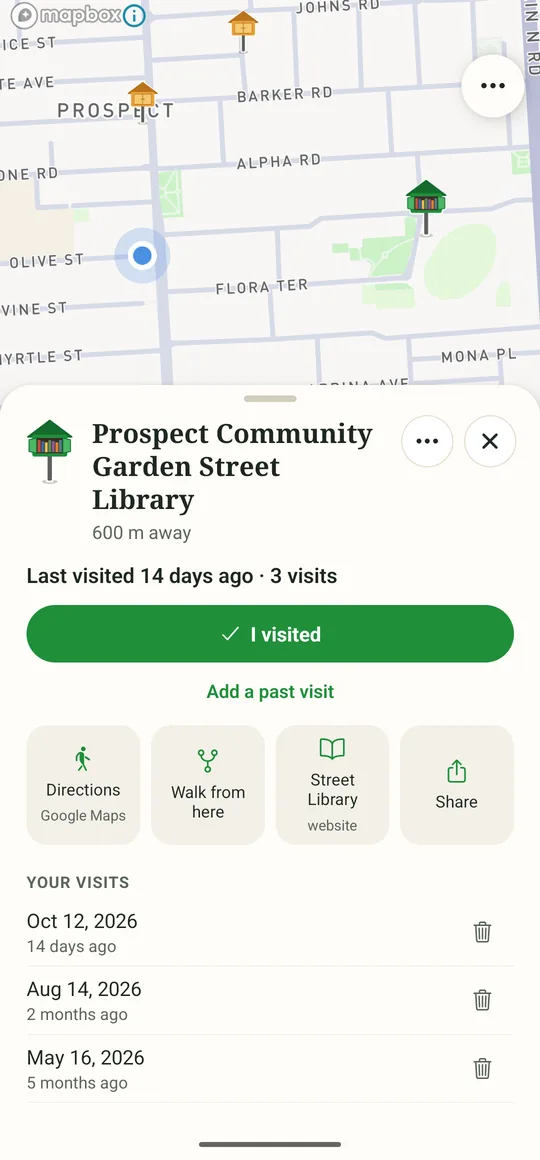
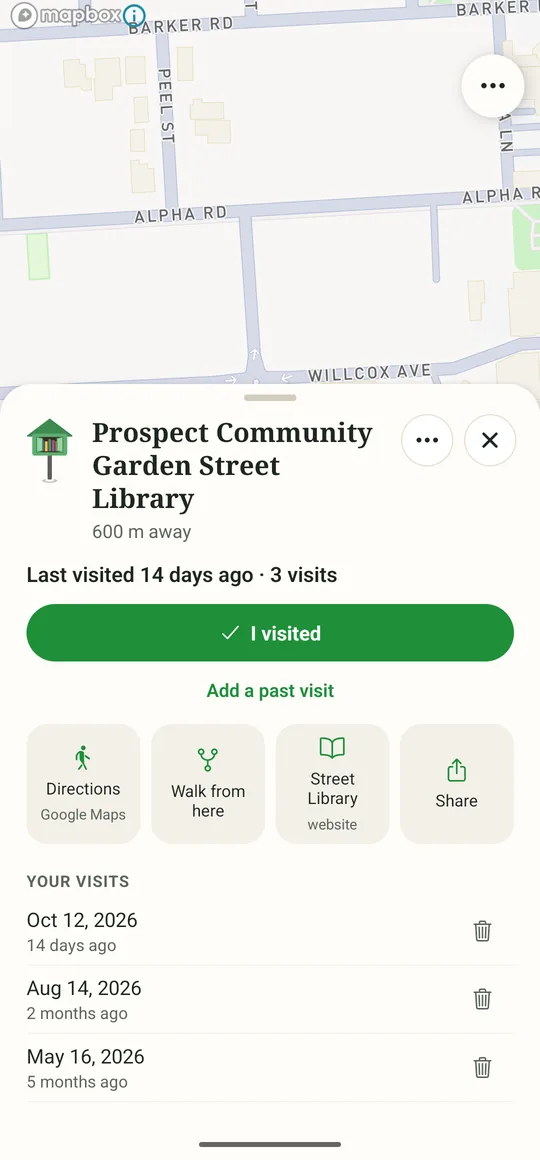
Site: retake the library and nearby screenshots with the new door timings (14 days ago is half open)

diff --git a/apps/site/public/index.html b/apps/site/public/index.html
@@ -70,7 +70,7 @@
           <li>
             <figure class="shot">
               <img src="images/library.webp" width="540" height="1160" loading="lazy"
-                   alt="A library's details pulled up over the map: last visited 14 days ago, 3 visits, an I visited button, and the dates of your past visits">
+                   alt="A library's details pulled up over the map: last visited 14 days ago, so its doors are half open, 3 visits, an I visited button, and the dates of your past visits">
             </figure>
             <div class="step-text">
               <h2>Record your visit</h2>
